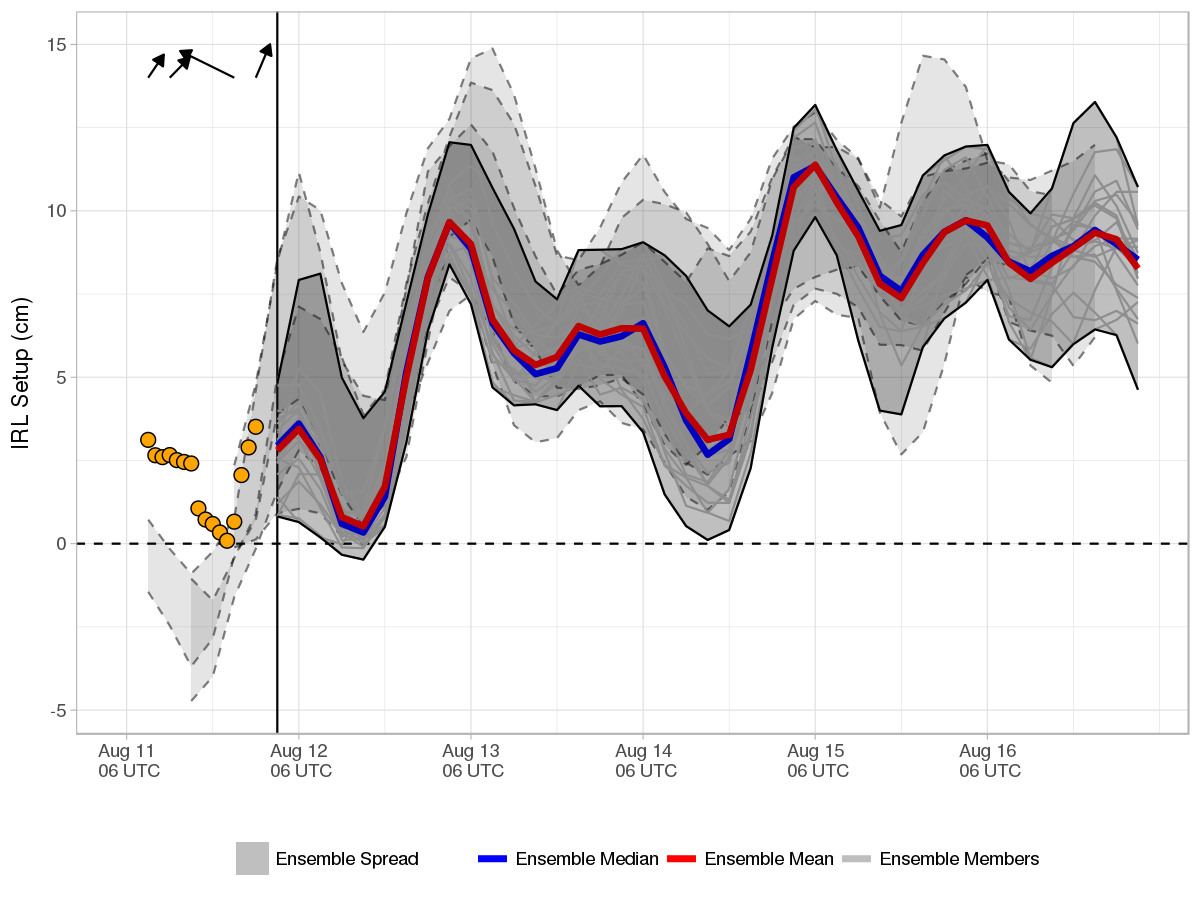
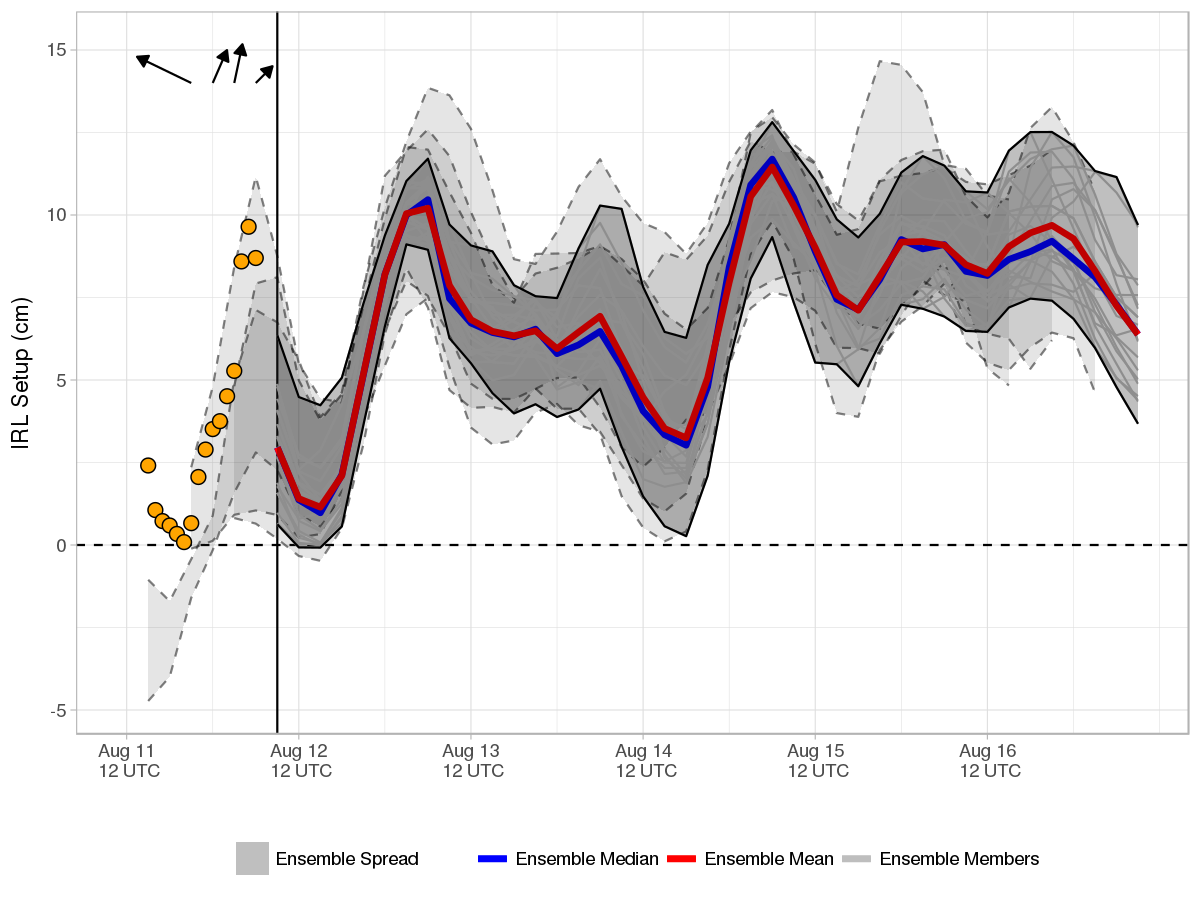
Forecast Update

diff --git a/docs/index.md b/docs/index.md
@@ -1,9 +1,9 @@
-Current Forecast 2018-08-11, Cycle 18UTC
+Current Forecast 2018-08-12, Cycle 00UTC
 ----------------------------------------
 
 [![](img/raw_setup.png)](https://fit-winds.github.io/IRLSetup/img/raw_setup.png)
 
-> Forecast valid 2018-08-11 20:23:36.
+> Forecast valid 2018-08-12 02:24:18.
 
 Explanation
 -----------
@@ -17,7 +17,7 @@ star), and Sebastian, FL (white star). In general, southerly (northerly)
 winds result in increased water elevation near Titusville (Sebastian)
 and positive (negative) setup.
 
-The current cycle 2018-08-11 18UTC 0.5° [Global Ensemble Forecast System
+The current cycle 2018-08-12 00UTC 0.5° [Global Ensemble Forecast System
 (GEFS)](https://www.ncdc.noaa.gov/data-access/model-data/model-datasets/global-ensemble-forecast-system-gefs)
 mean and median forecasts of setup are represented by the red and blue
 curves, respectively. Ensemble spread from the current and three
